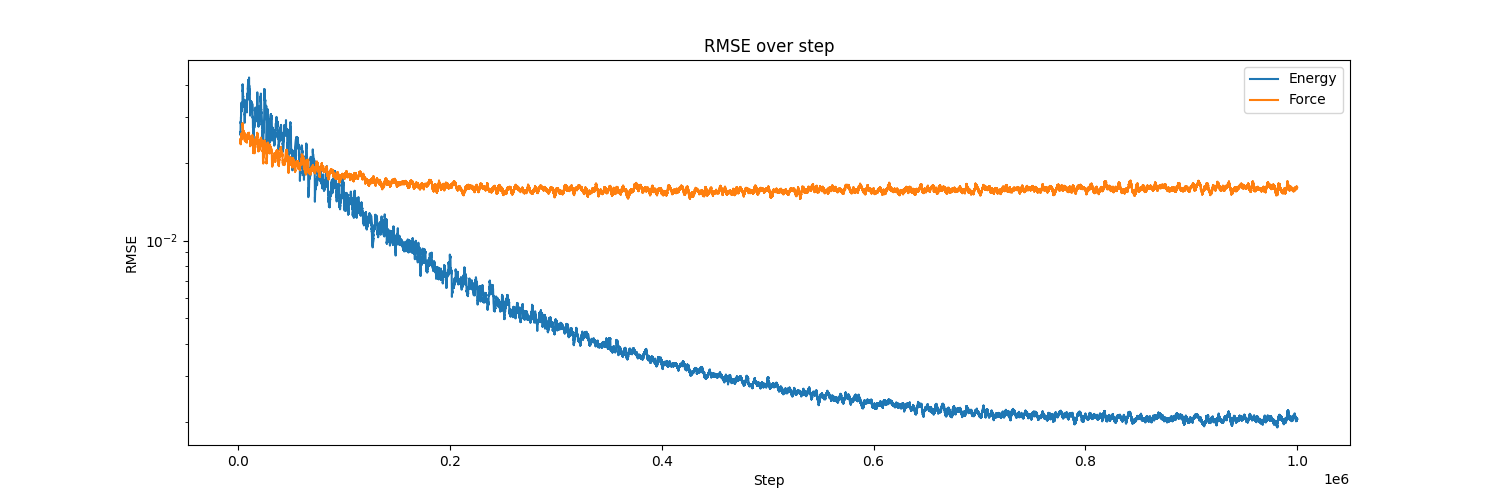
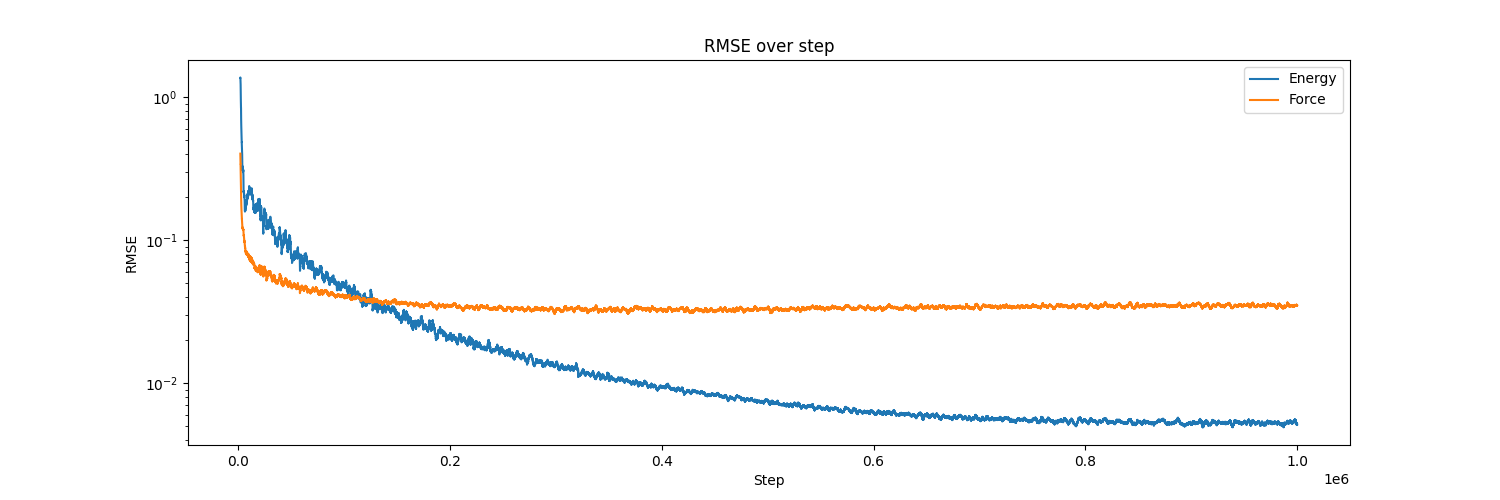
fixed a bug related to input stats

Changed region(s): [[0.1533, 0.15, 0.8893, 0.87], [0.092, 0.75, 0.1227, 0.78], [0.092, 0.18, 0.1227, 0.21]]

diff --git a/deepmd_pt/embedding_net.py b/deepmd_pt/embedding_net.py
@@ -153,11 +153,11 @@ class EmbeddingNet(torch.nn.Module):
         self.ndescrpt = self.nnei * 4  # 描述符的元素数量
 
         wanted_shape = (self.ntypes, self.nnei, 4)
-        self.mean = torch.zeros(wanted_shape, dtype=env.GLOBAL_PT_FLOAT_PRECISION, device=env.DEVICE)
-        self.stddev = torch.ones(wanted_shape, dtype=env.GLOBAL_PT_FLOAT_PRECISION, device=env.DEVICE)
-        self.mean = torch.nn.Parameter(self.mean)
-        self.stddev = torch.nn.Parameter(self.stddev)
-        
+        mean = torch.zeros(wanted_shape, dtype=env.GLOBAL_PT_FLOAT_PRECISION, device=env.DEVICE)
+        stddev = torch.ones(wanted_shape, dtype=env.GLOBAL_PT_FLOAT_PRECISION, device=env.DEVICE)
+        self.register_buffer('mean', mean)
+        self.register_buffer('stddev', stddev)
+
         filter_layers = []
         start_index = 0
         for type_i in range(self.ntypes):
@@ -216,9 +216,9 @@ class EmbeddingNet(torch.nn.Module):
             all_davg.append(davg)
             all_dstd.append(dstd)
         mean = np.stack(all_davg)
-        self.mean = torch.nn.Parameter(torch.tensor(mean, device=env.DEVICE))
+        self.mean.copy_(torch.tensor(mean, device=env.DEVICE))
         stddev = np.stack(all_dstd)
-        self.stdev = torch.nn.Parameter(torch.tensor(stddev, device=env.DEVICE))
+        self.stddev.copy_(torch.tensor(stddev, device=env.DEVICE))
 
     def forward(self, extended_coord, selected, atype):
         '''Calculate decoded embedding for each atom.

diff --git a/tests/test_model.py b/tests/test_model.py
@@ -272,10 +272,10 @@ class TestEnergy(unittest.TestCase):
 
         # Keep statistics consistency between 2 implentations
         my_em = my_model.embedding_net
-        my_em.mean = stat_dict['descriptor.mean'].reshape([self.ntypes, my_em.nnei, 4])
-        my_em.mean = torch.tensor(my_em.mean, device=DEVICE)
-        my_em.stddev = stat_dict['descriptor.stddev'].reshape([self.ntypes, my_em.nnei, 4])
-        my_em.stddev = torch.tensor(my_em.stddev, device=DEVICE)
+        mean = stat_dict['descriptor.mean'].reshape([self.ntypes, my_em.nnei, 4])
+        my_em.mean = torch.tensor(mean, device=DEVICE)
+        stddev = stat_dict['descriptor.stddev'].reshape([self.ntypes, my_em.nnei, 4])
+        my_em.stddev = torch.tensor(stddev, device=DEVICE)
         my_model.fitting_net.bias_atom_e = stat_dict['fitting_net.bias_atom_e']
 
         # Keep parameter value consistency between 2 implentations

diff --git a/tests/test_stat.py b/tests/test_stat.py
@@ -122,10 +122,10 @@ class TestDataset(unittest.TestCase):
                 if key in sys.keys():
                     sys[key] = sys[key].to(env.DEVICE)
         my_en.compute_input_stats(sampled)
-        my_en.mean = my_en.mean.cpu().numpy()
-        my_en.stddev = my_en.stddev.cpu().numpy()
-        self.assertTrue(np.allclose(self.dp_d.davg.reshape([-1]), my_en.mean.reshape([-1])))
-        self.assertTrue(np.allclose(self.dp_d.dstd.reshape([-1]), my_en.stddev.reshape([-1])))
+        my_en.mean = my_en.mean
+        my_en.stddev = my_en.stddev
+        self.assertTrue(np.allclose(self.dp_d.davg.reshape([-1]), my_en.mean.cpu().reshape([-1])))
+        self.assertTrue(np.allclose(self.dp_d.dstd.reshape([-1]), my_en.stddev.cpu().reshape([-1])))
 
 if __name__ == '__main__':
     unittest.main()

diff --git a/deepmd_pt/dataset.py b/deepmd_pt/dataset.py
@@ -225,6 +225,7 @@ class DeepmdDataSystem(object):
             if key in batch.keys():
                 batch[key] = torch.tensor(batch[key], dtype=torch.long, device=env.PREPROCESS_DEVICE)
         batch['coord'] = batch['coord'].view(n_frames, -1, 3)
+        batch['force'] = batch['force'].view(n_frames, -1, 3)
         batch['atype'] = batch.pop('type')
         batch['energy'] = batch['energy'].view(-1, 1)
 
@@ -335,4 +336,5 @@ class DeepmdDataSet(Dataset):
                 np_batch[key] = pt_batch[key].cpu().numpy()
         np_batch['coord'] = np_batch['coord'].reshape(self._batch_size, -1)
         np_batch['natoms'] = np_batch['natoms'][0]
+        np_batch['force'] = np_batch['force'].reshape(self._batch_size, -1)
         return np_batch, pt_batch

diff --git a/deepmd_pt/inference.py b/deepmd_pt/inference.py
@@ -47,7 +47,7 @@ class Trainer(object):
             rcut=model_params['descriptor']['rcut'],
             sel=model_params['descriptor']['sel']
         )   
-        #self.test_data = training_data
+        self.test_data = training_data
         self.model = EnergyModel(model_params, self.test_data).to(DEVICE)
         state_dict = torch.load(ckpt)
         self.model.load_state_dict(state_dict)
